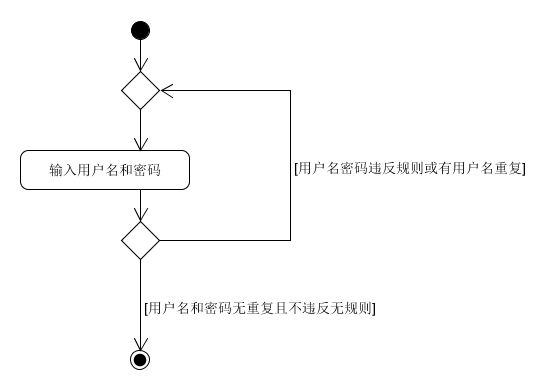
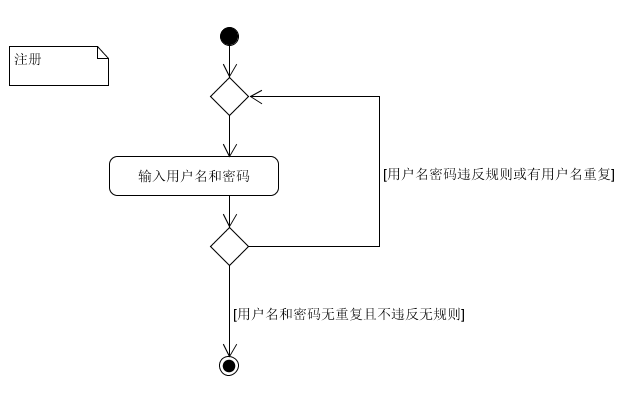
用例文本

diff --git a/SRS.md b/SRS.md
@@ -1,39 +1,78 @@
-### Software Requirement specification（软件需求规格说明书）
+## Software Requirement specification（软件需求规格说明书）
 
-1. Usecase Diagram and UML Activity Diagram（用例图，业务过程/多泳道图）
-   - 1.1 挣闲钱系统用例模型
-    ![](pics/SRS/usecase.png)
-   - 1.2 挣闲钱业务过程模型（多泳道图）
-        - 场景1：奶牛发布问卷给学生用户填写并给予薪酬
-        ![](pics/SRS/swimlane1.png)
-        - 场景1：奶牛发布任务给学生用户完成并给予薪酬
-        ![](pics/SRS/swimlane2.png)
-2. 用例，或特征，或业务流程描述
-   - 2.1 01-b01-奶牛发布任务业务活动图
-   - 2.2 01-c01-奶牛发布任务用例描述
-   - 2.3 01-c02-学生接受任务用例描述
-   - 2.4 01-c03-用户（学生，奶牛）注册用例描述
-   - 2.5 01-c04-用户（学生，奶牛）登陆用例描述
-   - 2.6 01-t01-奶牛发布任务用例交互技术特征需求描述（也可以放入第六部分）
-3. 领域建模
-   - 3.1 挣闲钱系统用例进行领域模型
-    ![](pics/SRS/domainModel.png)
-4. 状态建模
-   - 4.1 学生对象状态模型
-    ![](pics/SRS/stateModelStudent.png)
-   - 4.2 奶牛对象状态模型
-    ![](pics/SRS/stateModelCow.png)
-5. 功能建模
-   - 5.1 学生接受任务场景系统顺序图
-   ![](pics/SRS/sequenceDiagramStu1.png)
-   - 5.1 学生填写问卷场景系统顺序图
-   ![](pics/SRS/sequenceDiagramStu2.png)
-   - 5.1 学生加入兴趣组场景系统顺序图
-   ![](pics/SRS/sequenceDiagramStu3.png)
-   - 5.2 奶牛发布任务场景系统顺序图
-   ![](pics/SRS/sequenceDiagramCow1.png)
-   - 5.2 奶牛发布问卷场景系统顺序图
-   ![](pics/SRS/sequenceDiagramCow2.png)
-6. 补充需求（非功能需求）
-   - 6.1 XX界面设计需求
-   - 6.2 人脸识别技术要求
+### 1.用例图，业务过程/多泳道图
+- 1.1 挣闲钱系统用例图
+![](pics/SRS/usecase.png)
+
+- 1.2 挣闲钱业务过程模型（多泳道图）
+    - 场景1：奶牛发布问卷给学生用户填写并给予薪酬
+    ![](pics/SRS/swimlane1.png)
+    - 场景1：奶牛发布任务给学生用户完成并给予薪酬
+    ![](pics/SRS/swimlane2.png)
+
+---
+### 2.用例文本与活动图
+
+整个挣闲钱系统按照业务划分为下面几个**基本用例**，用例文本如下：
+- **用户（学生，奶牛）注册**：奶牛或者学生用户注册系统。
+- **用户（学生，奶牛）登陆**：奶牛或者学生用户用注册的账号登录系统。
+- **奶牛发布问卷**：奶牛在问卷中心新建问卷，填写问卷的问题与薪酬，然后将问卷发布到问卷中心。
+- **学生填写问卷**：学生在问卷中心查看可填写的问卷，选取感兴趣的问卷进行填写，并在填写之后获得相应的薪酬。
+- **奶牛发布任务**：奶牛在任务中心新建任务，填写任务要求与薪酬，然后将任务发布到任务中心。
+- **学生接受任务**：学生在任务中心查看可以接受的任务列表，选择接受其中感兴趣的任务，然后完成任务并获得相应的薪酬。
+- **学生创建兴趣组**：学生创建属于自己的兴趣组。
+- **学生加入兴趣组**：学生打开兴趣组页面查看已有的兴趣组列表，选择其中的任意感兴趣的兴趣组加入。
+- **学生薪酬提现**：学生将自己赚取的薪酬通过微信平台提现到绑定好的微信账号之中。
+
+**扩展用例**：
+- **搜索问卷**：学生用户在问卷中心根据关键词搜索得到相关的问卷。
+- **搜索任务**：学生用户在任务中心根据关键词搜索得到相关的任务。
+- **按发布时间排序问卷**：学生用户在问卷中心对所有的可填写问卷按发布时间排序，
+- **按发布时间排序任务**：学生用户在问卷中心对所有的可填写问卷按发布时间排序，
+
+下面是`主成功场景`——**用户（学生，奶牛）注册**、**奶牛发布问卷**、**奶牛发布任务**、**学生填写问卷**以及**学生完成任务**的活动图。
+- **用户（学生，奶牛）注册**
+![](pics/SRS/registerActivity.png)
+- **奶牛发布问卷**
+
+- **奶牛发布任务**
+
+- **学生填写问卷**
+
+- **学生完成任务**
+
+---
+### 3.领域模型
+- 3.1 挣闲钱系统用例进行领域模型
+![](pics/SRS/domainModel.png)
+
+---
+### 4.状态模型
+- 4.1 学生对象状态模型
+![](pics/SRS/stateModelStudent.png)
+
+- 4.2 奶牛对象状态模型
+![](pics/SRS/stateModelCow.png)
+
+---
+### 5.功能模型
+- 5.1 学生接受任务场景系统顺序图
+![](pics/SRS/sequenceDiagramStu1.png)
+
+- 5.2 学生填写问卷场景系统顺序图
+![](pics/SRS/sequenceDiagramStu2.png)
+
+- 5.3 学生加入兴趣组场景系统顺序图
+![](pics/SRS/sequenceDiagramStu3.png)
+
+- 5.4 奶牛发布任务场景系统顺序图
+![](pics/SRS/sequenceDiagramCow1.png)
+
+- 5.5 奶牛发布问卷场景系统顺序图
+![](pics/SRS/sequenceDiagramCow2.png)
+
+---
+### 6.补充需求（非功能需求）
+- 6.1 XX界面设计需求
+
+- 6.2 人脸识别技术要求

diff --git a/design.md b/design.md
@@ -1,5 +1,8 @@
 ### Design（设计说明书）
 
+#### 1. UI design（界面设计）
+
+
 ---
 #### 2. Database design
 ```sql
@@ -123,3 +126,6 @@ CREATE TABLE `TaskUsers` (
     ![](pics/API/Model5.png)
 
 ---
+#### 4. Architecture design（架构设计）
+    
+#### 5. Usecase design（用例设计）

diff --git a/README.md b/README.md
@@ -15,7 +15,7 @@ document about earn spare money
 
    6.1 Usecase Diagram and UML Activity Diagram（用例图，业务过程/多泳道图）
    
-   6.2 Use Cases（用例+活动图）
+   6.2 Use Cases（用例文本与活动图）
    
    6.3 Domian Models（领域模型）
    
